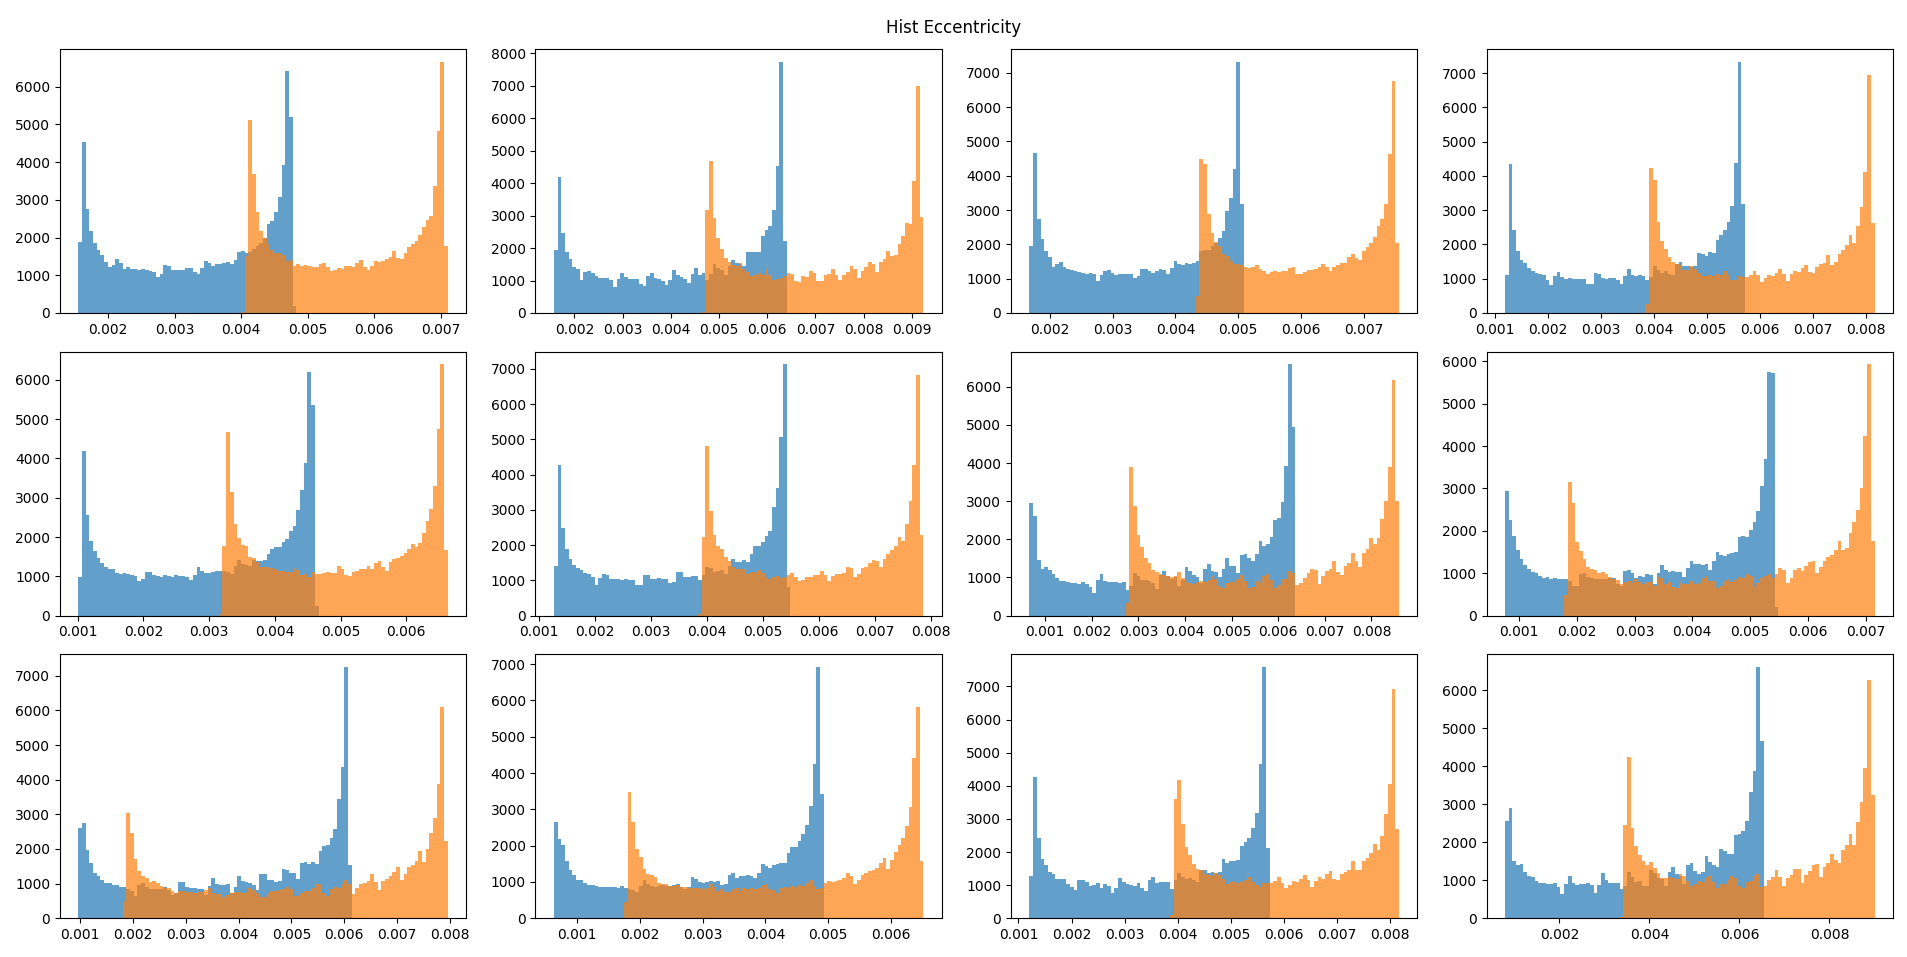
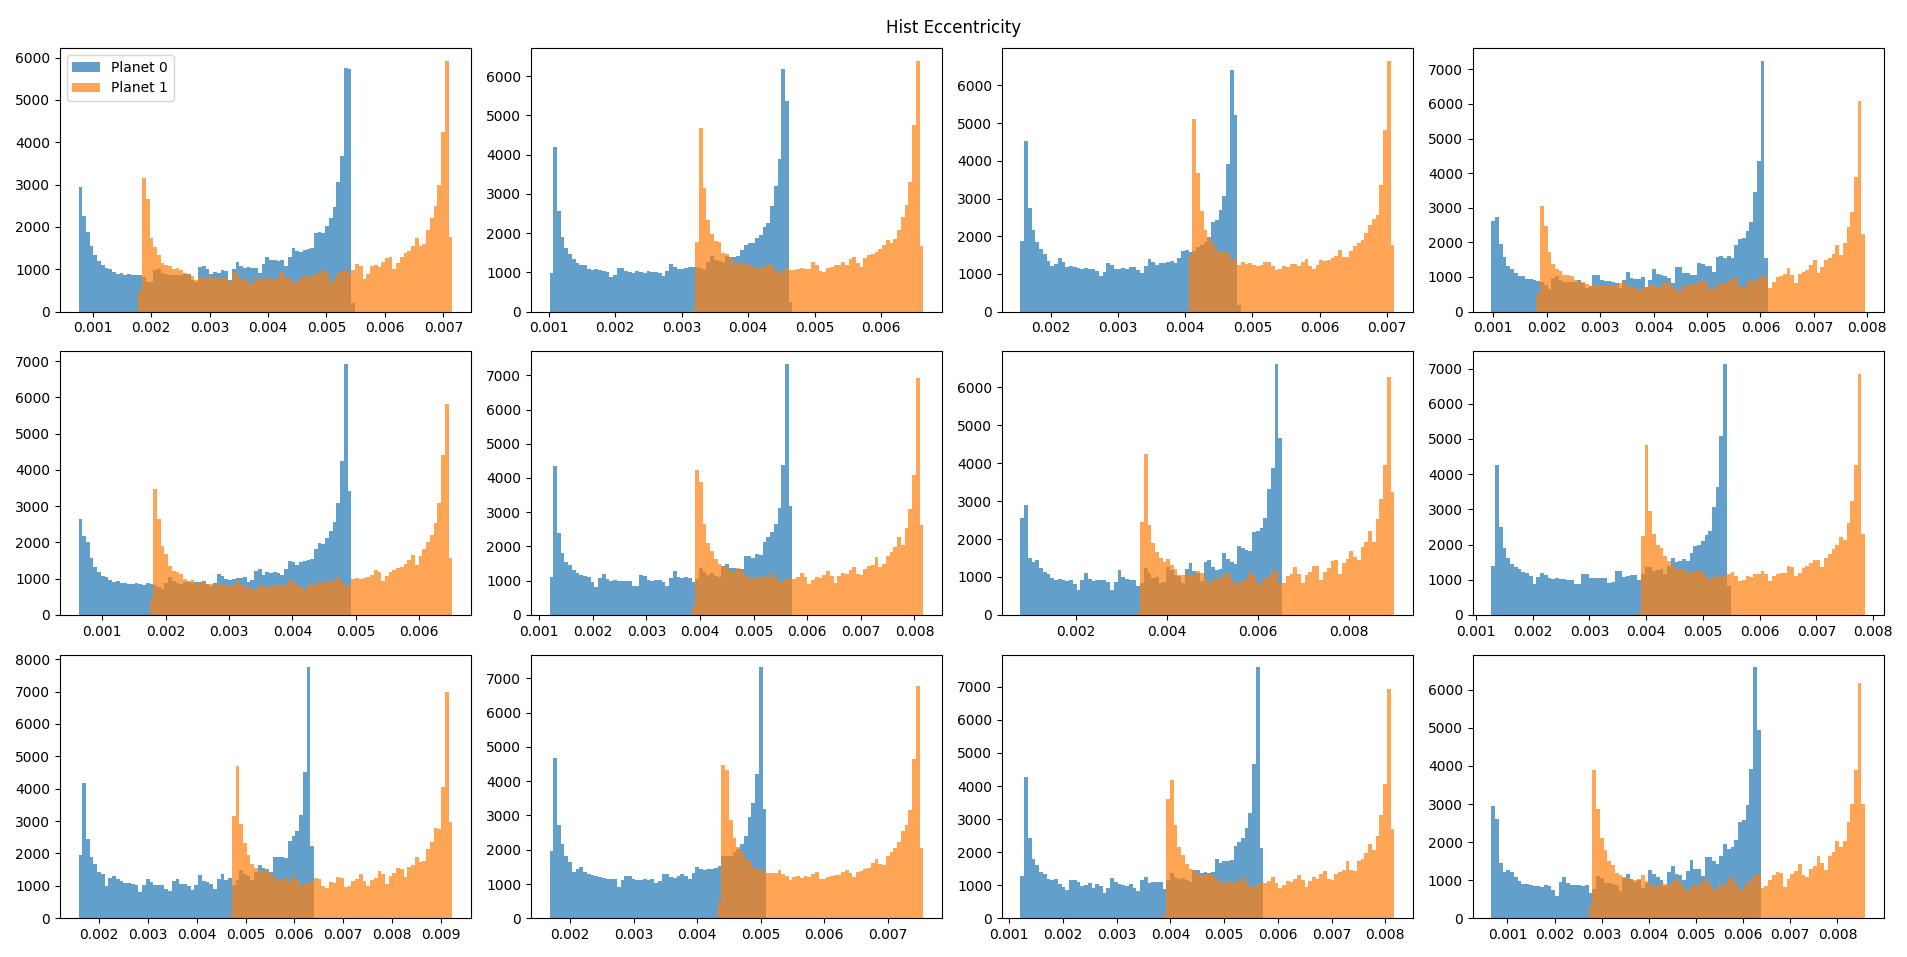
Added Plots

diff --git a/Shared_Libs/sim_library.py b/Shared_Libs/sim_library.py
@@ -502,20 +502,27 @@ def Simulation(simulation, t_start, t_end, step, step_fraction, hashes, orbit_fr
 
 
 
-def Window(array, window):
-	pre = 0
-	post = 0
-	if window%2 != 0:
-		pre = (window-1)//2
-		post = (window-1)//2 + 1
+def Window(ref_array, array, window):
+	retvals = []
+
+	time_dir = 0
+	if ref_array[0] > ref_array[-1]:
+		time_dir = -1
 	else:
-		pre = window//2
-		post = window//2
+		time_dir = 1
 
-	retvals = np.zeros(len(array)-(pre+post))
+	wind_sgn = time_dir*window
 
-	for i in range(pre, len(array)-post):
-		retvals[i-pre] = np.mean(array[(i-pre):(i+post)])
+	for i in range(len(array)):
+		if abs(ref_array[-1] - ref_array[i]) < window:
+			break
+		diff_arr = ref_array - (ref_array[i] + wind_sgn)
+		indx_closest = np.abs(diff_arr).argmin()
+		if diff_arr[indx_closest] <= 0:
+			retvals.append(np.mean(array[i:indx_closest+1]))
+		else:
+			retvals.append(np.mean(array[i:indx_closest]))
+
 	return retvals, np.mean(retvals), np.std(retvals)
 
 
@@ -523,7 +530,7 @@ def Window(array, window):
 def Window2(ref_array, array, window):
 	retvals = []
 	for i in range(len(ref_array)):
-		if abs(ref_array[i]) + window > abs(ref_array[-1]):
+		if abs(ref_array[-1] - ref_array[i]) < window:
 			break
 		summed = 0
 		nelems = 0
@@ -553,6 +560,8 @@ def Hist_Plot(directories, window, nbins, plot_lines, plot_columns, plot_titles,
 			times = output_sets[j][set_titles[0]]
 			obj_sets = []
 			for k in range(len(values[0])):
+				t1 = tm.time()
+				#object_set, mean, std = Window(ref_array = times, array = values[:,k], window = window)
 				object_set, mean, std = Window2(ref_array = times, array = values[:,k], window = window)
 				obj_sets.append(object_set)
 
@@ -560,10 +569,33 @@ def Hist_Plot(directories, window, nbins, plot_lines, plot_columns, plot_titles,
 			max_hist = np.max(obj_sets)
 
 			for k in range(len(values[0])):
-				axs[line, column].hist(obj_sets[k], bins = nbins, range = (min_hist, max_hist), alpha = 0.7)
+				if j == 0:
+					axs[line, column].hist(obj_sets[k], bins = nbins, range = (min_hist, max_hist), alpha = 0.7, label = "Planet {:.0f}".format(k))
+					axs[line, column].legend(loc = 'best')
+				else:
+					axs[line, column].hist(obj_sets[k], bins = nbins, range = (min_hist, max_hist), alpha = 0.7)
 
 			column += 1
 			if column == plot_columns:
 				column = 0
 				line += 1
+	return
+
+
+
+def Rothko_Plot(directories, set_title1, set_title2):
+	output_sets = []
+	for directory in directories:
+		output_sets.append(np.load("{}/outputs.npz".format(directory)))
+
+	for i in range(len(output_sets[0][set_title1][0])):
+		fig = plt.figure(figsize = [10,10], layout = 'tight')
+		ax = fig.add_subplot(111)
+		fig.suptitle("Rothko ({:s}-{:s}) for object {:.0f}".format(set_title1, set_title2, i))
+		for j in range(len(output_sets)):
+			arr1 = output_sets[j][set_title1][:,i]
+			arr2 = output_sets[j][set_title2][:,i]
+			ax.plot(arr1, arr2, '.', alpha = 0.01)
+			ax.set_xlabel(set_title1)
+			ax.set_ylabel(set_title2)
 	return

diff --git a/Test_Examples/AU_Mic/AU_Mic.py b/Test_Examples/AU_Mic/AU_Mic.py
@@ -61,7 +61,7 @@ def Parallel_Sim(niter):
 
 
 if __name__ == '__main__':
-	folderpath = "./2024_3_23_19_37_46"
+	folderpath = "./2024_3_22_17_6_45"
 
 	if folderpath == "":
 		loctime = datetime.now()
@@ -93,6 +93,7 @@ if __name__ == '__main__':
 
 	plot_titles = ["Semimajor axis", "Eccentricity", "Inclination"]
 	set_titles = ['tsteps', 'semiaxis', 'eccent', 'incl']
+	'''
 	output_sets = []
 	for directory in directories:
 		output_sets.append(np.load("{}/outputs.npz".format(directory)))
@@ -111,7 +112,8 @@ if __name__ == '__main__':
 			if column == plot_columns:
 				column = 0
 				line += 1
-
+	'''
+	Rothko_Plot(directories, set_titles[1], set_titles[2])
 	Hist_Plot(directories, 100, 100, plot_lines, plot_columns, plot_titles, set_titles)
 
 	plt.show()

diff --git a/Test_Examples/Kepler_51/Kepler-51.py b/Test_Examples/Kepler_51/Kepler-51.py
@@ -92,6 +92,7 @@ if __name__ == '__main__':
 
 	plot_titles = ["Semimajor axis", "Eccentricity", "Inclination"]
 	set_titles = ['tsteps', 'semiaxis', 'eccent', 'incl']
+	'''
 	output_sets = []
 	for directory in directories:
 		output_sets.append(np.load("{}/outputs.npz".format(directory)))
@@ -110,7 +111,8 @@ if __name__ == '__main__':
 			if column == plot_columns:
 				column = 0
 				line += 1
-
+	'''
+	Rothko_Plot(directories, set_titles[1], set_titles[2])
 	Hist_Plot(directories, 100, 100, plot_lines, plot_columns, plot_titles, set_titles)
 
 	plt.show()
